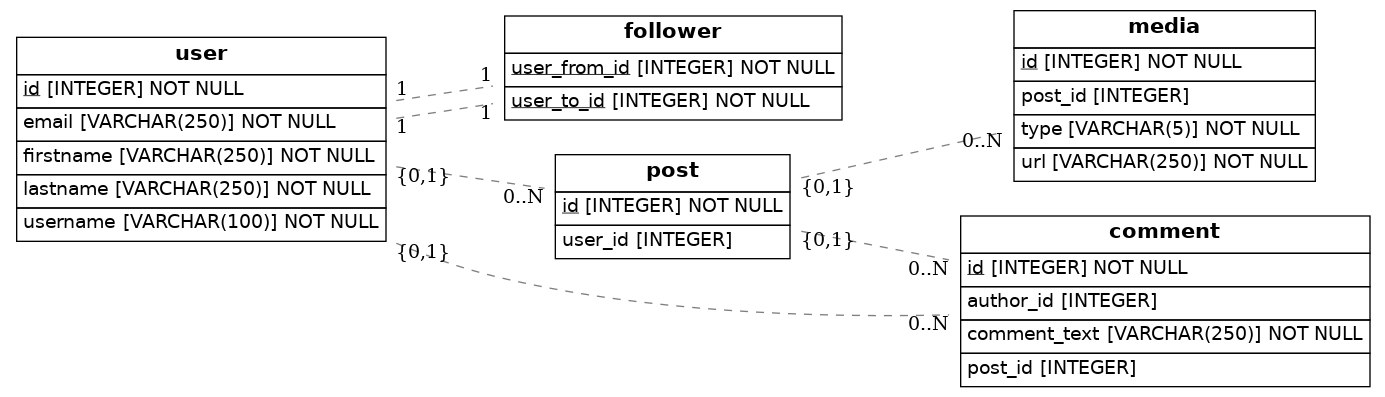
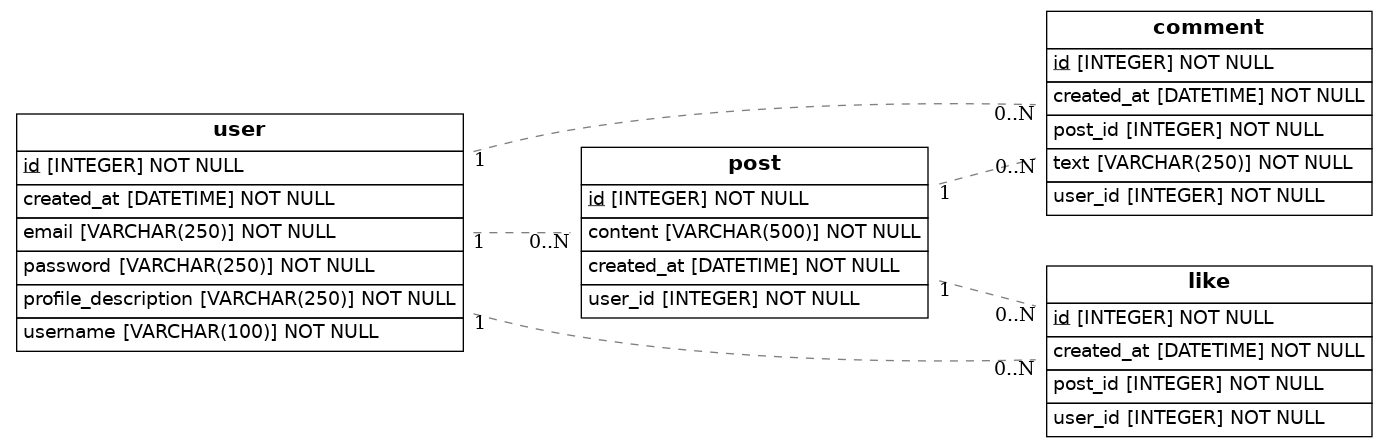
hecho

diff --git a/src/models.py b/src/models.py
@@ -1,6 +1,6 @@
 import os
 import sys
-from sqlalchemy import Column, ForeignKey, Integer, String, Enum
+from sqlalchemy import Column, ForeignKey, Integer, String, DateTime
 from sqlalchemy.orm import relationship, declarative_base
 from sqlalchemy import create_engine
 from eralchemy2 import render_er
@@ -9,66 +9,48 @@ from enum import Enum as PyEnum
 Base = declarative_base()
 
 
-class TypeFile(PyEnum):
-    VIDEO = "video"
-    IMAGE = "image"
-
 
 class User(Base):
-    __tablename__='user'
+    __tablename__ = 'user'
     id = Column(Integer, primary_key=True)
-    username = Column(String(100), nullable=False)
-    firstname = Column(String(250), nullable=False)
-    lastname = Column(String(250), nullable=False)
-    email = Column(String(250), nullable=False)
-
-
-
-class Follower(Base):
-    __tablename__ = 'follower'
-    # Here we define columns for the table person
-    # Notice that each column is also a normal Python instance attribute.
-    user_from_id = Column(Integer, ForeignKey('user.id'), primary_key=True)
-    user_to_id = Column(Integer, ForeignKey('user.id'), primary_key=True)
-    user = relationship(User)
-
+    username = Column(String(100), nullable=False, unique=True)
+    profile_description = Column(String(250), nullable=False)
+    password = Column(String(250), nullable=False)
+    email = Column(String(250), nullable=False, unique=True)
+    created_at = Column(DateTime, nullable=False)
+    posts = relationship("Post", back_populates="user")
+    comments = relationship("Comment", back_populates="user")
+    likes = relationship("Like", back_populates="user")
 
 class Post(Base):
     __tablename__ = 'post'
-    # Here we define columns for the table address.
-    # Notice that each column is also a normal Python instance attribute.
     id = Column(Integer, primary_key=True)
-    user_id = Column(Integer, ForeignKey('user.id'))
+    content = Column(String(500), nullable=False)
+    created_at = Column(DateTime, nullable=False)
+    user_id = Column(Integer, ForeignKey('user.id'), nullable=False)
+    user = relationship("User", back_populates="posts")
+    comments = relationship("Comment", back_populates="post")
+    likes = relationship("Like", back_populates="post")
 
 class Comment(Base):
     __tablename__ = 'comment'
-    # Here we define columns for the table address.
-    # Notice that each column is also a normal Python instance attribute.
     id = Column(Integer, primary_key=True)
-    comment_text = Column(String(250), nullable=False)
-    author_id = Column(Integer, ForeignKey('user.id'))
-    user = relationship(User)
-    post_id = Column(Integer, ForeignKey('post.id'))
-    post = relationship(Post)
+    text = Column(String(250), nullable=False)
+    created_at = Column(DateTime, nullable=False)
+    user_id = Column(Integer, ForeignKey('user.id'), nullable=False)
+    post_id = Column(Integer, ForeignKey('post.id'), nullable=False)
+    user = relationship("User", back_populates="comments")
+    post = relationship("Post", back_populates="comments")
 
-
-class Media(Base):
-    __tablename__ = 'media'
-    # Here we define columns for the table address.
-    # Notice that each column is also a normal Python instance attribute.
+class Like(Base):
+    __tablename__ = 'like'
     id = Column(Integer, primary_key=True)
-    type = Column(Enum(TypeFile), nullable=False)
-    url = Column(String(250), nullable=False)
-    post_id = Column(Integer, ForeignKey('post.id'))
-    post = relationship(Post)
+    user_id = Column(Integer, ForeignKey('user.id'), nullable=False)
+    post_id = Column(Integer, ForeignKey('post.id'), nullable=False)
+    created_at = Column(DateTime, nullable=False)
+    user = relationship("User", back_populates="likes")
+    post = relationship("Post", back_populates="likes")
 
-    
-    # id = Column(Integer, primary_key=True)
-    # street_name = Column(String(250))
-    # street_number = Column(String(250))
-    # post_code = Column(String(250), nullable=False)
-    # person_id = Column(Integer, ForeignKey('person.id'))
-    # person = relationship(Person)
 
     def to_dict(self):
         return {}
